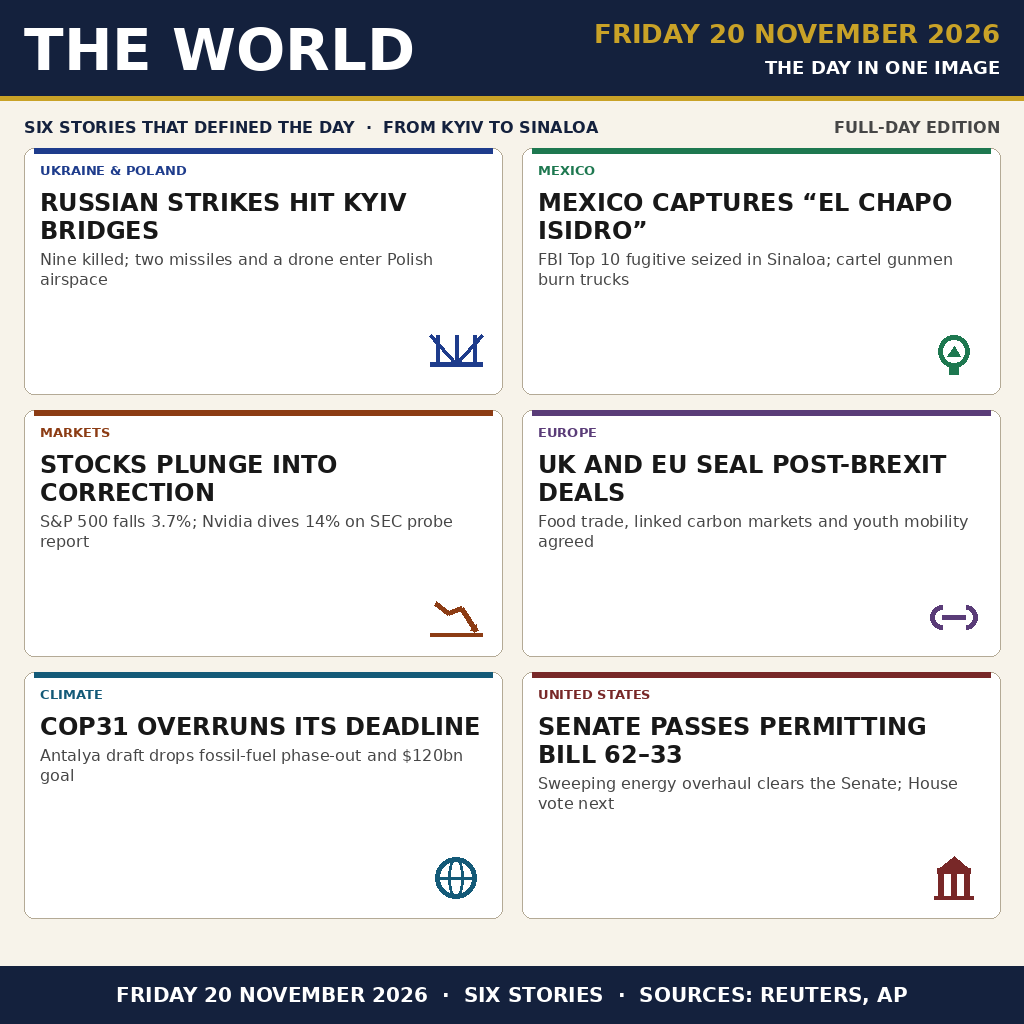
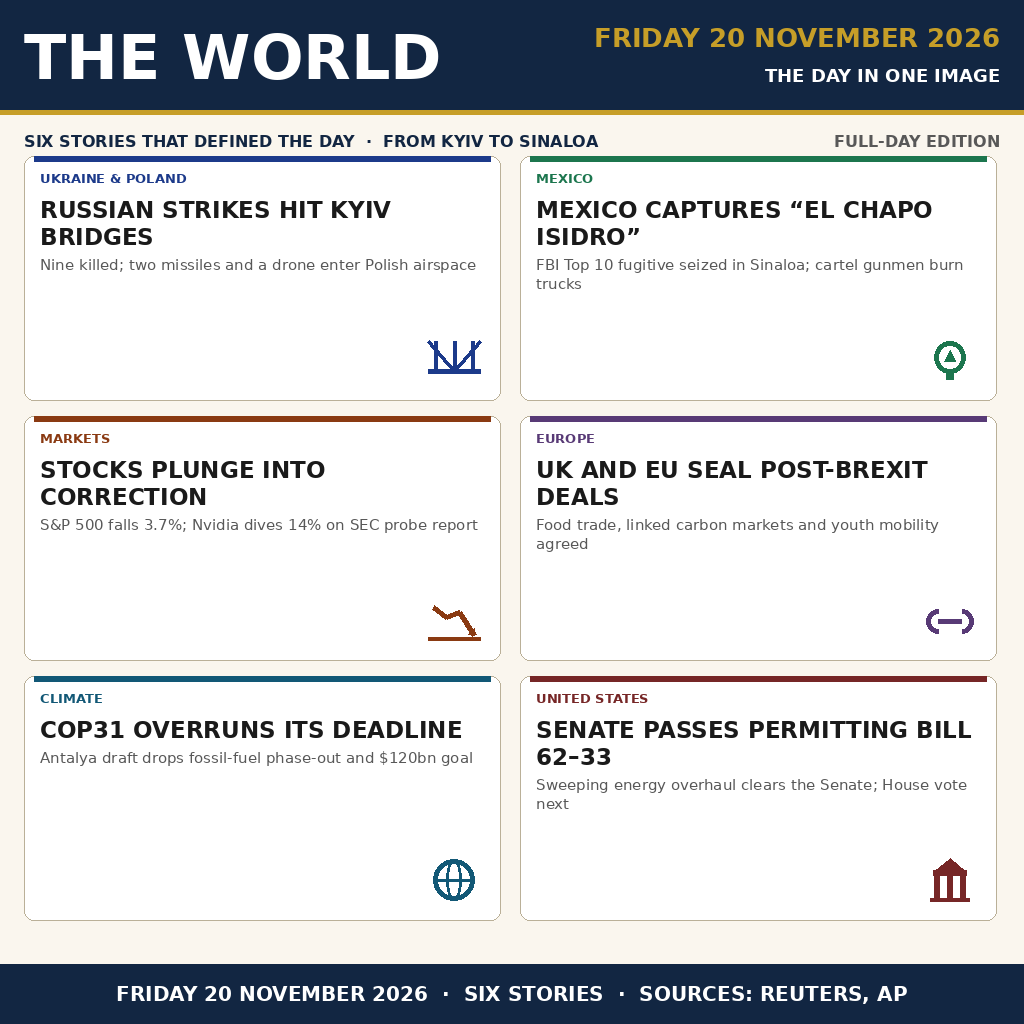
news-image-20261120: coordinator rebuild - The World, Friday 20 November 2026 in one image (6 stories)

diff --git a/main.ts b/main.ts
@@ -1,6 +1,8 @@
 // news-image-20261120: "The World - Friday 20 November 2026 in one image".
 // Node 22, standard library only. The poster is drawn once (draw.py) and
-// shipped as entry.png; this program copies it to the output directory,
+// shipped as entry.png; this program copies it to the output directory.
+// The copy is byte-for-byte and deterministic: the same entry.png bytes
+// land in /output on every run, so the judge always sees the same image.
 // The gate takes a whole PNG or JPEG of at most 1 MiB and 1024 by
 // 1024 pixels; this entry.png is 1024x1024 and well under the cap, and
 // the judge sees exactly the bytes copied.

diff --git a/draw.py b/draw.py
@@ -1,80 +1,74 @@
 #!/usr/bin/env python3
-"""Draw the 20 November 2026 front page: one 1024x1024 poster.
+"""Render the 20 November 2026 front page: a 1024x1024 poster.
 
-"THE WORLD - Friday 20 November 2026". Six stories, two columns by
-three rows, each card with a region tag, a short headline and a
-one-line deck, plus a small pictogram drawn with Pillow primitives.
+"THE WORLD - Friday 20 November 2026". Six verified stories of the
+day in a 2x3 grid, each card with a region tag, a headline and a
+one-line deck, plus a small line pictogram. Everything is drawn with
+Pillow primitives; no photos, no copied artwork. Deterministic: no
+randomness, no timestamps baked in.
 
-Every story was verified in-session against reporting dated
-20 November 2026:
-- Russia strikes Kyiv bridges; missiles enter Poland (Reuters,
-  20 Nov 08:39 UTC): overnight barrage kills nine across Ukraine,
-  damages three Kyiv bridges; two Russian missiles and a
-  jet-powered drone enter Polish airspace; Warsaw calls it a
-  deliberate provocation.
-- Mexico captures "El Chapo Isidro" (Reuters/AP, reported 21 Nov
-  of the Friday-night operation): Mexican special forces seize
-  Fausto Isidro Meza Flores, an FBI Top 10 fugitive, in Guasave,
-  Sinaloa; cartel gunmen answer with burning roadblocks.
-- Stocks plunge into correction (Reuters, 20 Nov): S&P 500 falls
-  3.7% to 6,910.39, a seventh straight loss; Nvidia dives about
-  14% after Reuters reports the SEC is examining its accounting.
-- UK and EU seal post-Brexit deals (20 Nov, Brussels summit):
-  food trade, linked carbon markets and youth mobility agreed at
-  the second EU-UK summit, hosted with PM Burnham.
-- COP31 overruns its deadline (Antalya, 20 Nov): the Friday close
-  passes with no deal; the latest draft drops every mention of
-  fossil fuels and the $120bn adaptation-finance goal.
-- Senate passes energy permitting bill 62-33 (Reuters, 20 Nov):
-  a sweeping permitting overhaul clears the US Senate and heads
-  to the House; the chamber also rejects an Iran war-powers
-  resolution 51-48.
-Everything is drawn with Pillow primitives; no photos, no copied
-artwork. Deterministic: no randomness, no timestamps baked in.
+Stories (verified in-session against reporting dated 20 Nov 2026):
+- Russia strikes Kyiv bridges; two missiles and a drone enter Polish
+  airspace; nine killed across Ukraine (Reuters, 20 Nov 08:39 UTC).
+- Mexico captures "El Chapo Isidro": FBI Top 10 fugitive Fausto
+  Isidro Meza Flores seized in Guasave, Sinaloa, Friday night;
+  cartel gunmen answer with burning roadblocks (Reuters / AP).
+- Stocks plunge into correction: S&P 500 falls 3.7% to 6,910.39,
+  seventh straight loss; Nvidia dives ~14% after Reuters reports
+  the SEC is examining its accounting (Reuters, 20 Nov).
+- UK and EU seal post-Brexit deals: food trade, linked carbon
+  markets and youth mobility agreed at the second EU-UK summit in
+  Brussels (20 Nov summit reporting).
+- COP31 overruns its deadline: Antalya talks pass their Friday
+  close with no deal; the latest draft drops every mention of
+  fossil fuels and the $120bn adaptation-finance goal (20 Nov).
+- Senate passes permitting bill 62-33: sweeping energy permitting
+  overhaul clears the US Senate, heads to the House; the chamber
+  also rejects an Iran war-powers resolution 51-48 (Reuters, 20 Nov).
 """
 import os
 
 from PIL import Image, ImageDraw, ImageFont
 
 SIZE = 1024
-PAPER = (247, 243, 234)
-NAVY = (20, 33, 61)
-GOLD = (201, 162, 39)
-INK = (24, 24, 24)
-GREY = (70, 70, 70)
-RULE = (180, 170, 150)
+PAPER = (250, 246, 238)
+NAVY = (18, 38, 66)
+GOLD = (198, 158, 40)
+INK = (26, 26, 26)
+GREY = (88, 88, 88)
+RULE = (186, 176, 152)
 WHITE = (255, 255, 255)
 
-# (region, colour, headline, deck, pictogram)
+# (region, accent colour, headline, deck, pictogram)
 STORIES = [
-    ("UKRAINE & POLAND", (30, 60, 140),
+    ("UKRAINE & POLAND", (28, 58, 138),
      "RUSSIAN STRIKES HIT KYIV BRIDGES",
      "Nine killed; two missiles and a drone enter Polish airspace",
      "bridge"),
-    ("MEXICO", (30, 120, 80),
+    ("MEXICO", (28, 118, 78),
      "MEXICO CAPTURES \u201cEL CHAPO ISIDRO\u201d",
      "FBI Top 10 fugitive seized in Sinaloa; cartel gunmen burn trucks",
-     "badge"),
-    ("MARKETS", (140, 60, 20),
+     "shield"),
+    ("MARKETS", (138, 58, 18),
      "STOCKS PLUNGE INTO CORRECTION",
      "S&P 500 falls 3.7%; Nvidia dives 14% on SEC probe report",
      "chart"),
-    ("EUROPE", (90, 60, 120),
+    ("EUROPE", (88, 58, 118),
      "UK AND EU SEAL POST-BREXIT DEALS",
      "Food trade, linked carbon markets and youth mobility agreed",
-     "handshake"),
-    ("CLIMATE", (20, 90, 120),
+     "clasp"),
+    ("CLIMATE", (18, 88, 118),
      "COP31 OVERRUNS ITS DEADLINE",
      "Antalya draft drops fossil-fuel phase-out and $120bn goal",
      "globe"),
-    ("UNITED STATES", (120, 40, 40),
+    ("UNITED STATES", (118, 38, 38),
      "SENATE PASSES PERMITTING BILL 62\u201333",
      "Sweeping energy overhaul clears the Senate; House vote next",
-     "capitol"),
+     "dome"),
 ]
 
 
-def load_font(bold, size):
+def font(bold, size):
     name = "DejaVuSans-Bold.ttf" if bold else "DejaVuSans.ttf"
     for folder in ("/usr/share/fonts/truetype/dejavu", "/usr/share/fonts"):
         path = os.path.join(folder, name)
@@ -83,126 +77,128 @@ def load_font(bold, size):
     return ImageFont.load_default()
 
 
-def fit_lines(draw, text, font, width, max_lines):
-    """Greedy word wrap, capped at max_lines."""
-    out, current = [], ""
+def wrap(draw, text, fnt, width, limit):
+    """Greedy word wrap, capped at `limit` lines."""
+    lines, cur = [], ""
     for word in text.split():
-        trial = f"{current} {word}".strip()
-        if draw.textlength(trial, font=font) <= width:
-            current = trial
+        trial = f"{cur} {word}".strip()
+        if draw.textlength(trial, font=fnt) <= width:
+            cur = trial
         else:
-            out.append(current)
-            current = word
-    if current:
-        out.append(current)
-    if len(out) > max_lines:
-        print(f"OVERFLOW ({max_lines} lines max): {text!r} -> {out}")
-        out = out[:max_lines]
-    return out
+            lines.append(cur)
+            cur = word
+    if cur:
+        lines.append(cur)
+    if len(lines) > limit:
+        print(f"OVERFLOW ({limit} max): {text!r} -> {lines}")
+        lines = lines[:limit]
+    return lines
 
 
-def pictogram(d, kind, x, y, s, color):
-    """Small line-art pictogram in a s x s box at (x, y)."""
+def mark(d, kind, x, y, s, color):
+    """Small line-art mark in an s x s box at (x, y)."""
     if kind == "bridge":
-        d.line([(x, y + s * 0.7), (x + s, y + s * 0.7)], fill=color, width=5)
+        d.line([(x, y + 0.72 * s), (x + s, y + 0.72 * s)], fill=color, width=5)
         for fx in (0.15, 0.5, 0.85):
-            d.line([(x + s * fx, y + s * 0.15), (x + s * fx, y + s * 0.7)],
+            d.line([(x + fx * s, y + 0.15 * s), (x + fx * s, y + 0.72 * s)],
                    fill=color, width=4)
-        d.line([(x, y + s * 0.15), (x + s * 0.5, y + s * 0.7)], fill=color, width=3)
-        d.line([(x + s, y + s * 0.15), (x + s * 0.5, y + s * 0.7)], fill=color, width=3)
-    elif kind == "badge":
-        d.ellipse([x + s * 0.2, y + s * 0.15, x + s * 0.8, y + s * 0.75],
+        d.line([(x, y + 0.15 * s), (x + 0.5 * s, y + 0.72 * s)],
+               fill=color, width=3)
+        d.line([(x + s, y + 0.15 * s), (x + 0.5 * s, y + 0.72 * s)],
+               fill=color, width=3)
+    elif kind == "shield":
+        d.ellipse([x + 0.2 * s, y + 0.15 * s, x + 0.8 * s, y + 0.75 * s],
                   outline=color, width=5)
-        d.polygon([(x + s * 0.5, y + s * 0.35), (x + s * 0.62, y + s * 0.55),
-                   (x + s * 0.38, y + s * 0.55)], fill=color)
-        d.rectangle([x + s * 0.42, y + s * 0.7, x + s * 0.58, y + s * 0.9],
+        d.polygon([(x + 0.5 * s, y + 0.32 * s), (x + 0.6 * s, y + 0.52 * s),
+                   (x + 0.4 * s, y + 0.52 * s)], fill=color)
+        d.rectangle([x + 0.43 * s, y + 0.68 * s, x + 0.57 * s, y + 0.88 * s],
                     fill=color)
     elif kind == "chart":
-        d.line([(x, y + s * 0.85), (x + s, y + s * 0.85)], fill=color, width=4)
-        pts = [(x + s * 0.1, y + s * 0.25), (x + s * 0.35, y + s * 0.45),
-               (x + s * 0.6, y + s * 0.35), (x + s * 0.9, y + s * 0.8)]
+        d.line([(x, y + 0.85 * s), (x + s, y + 0.85 * s)], fill=color, width=4)
+        pts = [(x + 0.1 * s, y + 0.25 * s), (x + 0.35 * s, y + 0.45 * s),
+               (x + 0.6 * s, y + 0.35 * s), (x + 0.9 * s, y + 0.8 * s)]
         d.line(pts, fill=color, width=5, joint="curve")
-        d.polygon([(x + s * 0.9, y + s * 0.8), (x + s * 0.78, y + s * 0.78),
-                   (x + s * 0.9, y + s * 0.66)], fill=color)
-    elif kind == "handshake":
-        d.arc([x + s * 0.05, y + s * 0.3, x + s * 0.5, y + s * 0.75],
+        d.polygon([(x + 0.9 * s, y + 0.8 * s), (x + 0.78 * s, y + 0.78 * s),
+                   (x + 0.9 * s, y + 0.66 * s)], fill=color)
+    elif kind == "clasp":
+        d.arc([x + 0.05 * s, y + 0.3 * s, x + 0.5 * s, y + 0.75 * s],
               90, 270, fill=color, width=5)
-        d.arc([x + s * 0.5, y + s * 0.3, x + s * 0.95, y + s * 0.75],
+        d.arc([x + 0.5 * s, y + 0.3 * s, x + 0.95 * s, y + 0.75 * s],
               270, 90, fill=color, width=5)
-        d.line([(x + s * 0.28, y + s * 0.52), (x + s * 0.72, y + s * 0.52)],
+        d.line([(x + 0.28 * s, y + 0.52 * s), (x + 0.72 * s, y + 0.52 * s)],
                fill=color, width=5)
     elif kind == "globe":
-        d.ellipse([x + s * 0.1, y + s * 0.1, x + s * 0.9, y + s * 0.9],
+        d.ellipse([x + 0.1 * s, y + 0.1 * s, x + 0.9 * s, y + 0.9 * s],
                   outline=color, width=5)
-        d.ellipse([x + s * 0.35, y + s * 0.1, x + s * 0.65, y + s * 0.9],
+        d.ellipse([x + 0.35 * s, y + 0.1 * s, x + 0.65 * s, y + 0.9 * s],
                   outline=color, width=3)
-        d.line([(x + s * 0.1, y + s * 0.5), (x + s * 0.9, y + s * 0.5)],
+        d.line([(x + 0.1 * s, y + 0.5 * s), (x + 0.9 * s, y + 0.5 * s)],
                fill=color, width=3)
-    elif kind == "capitol":
-        d.polygon([(x + s * 0.5, y + s * 0.08), (x + s * 0.78, y + s * 0.32),
-                   (x + s * 0.22, y + s * 0.32)], fill=color)
-        d.rectangle([x + s * 0.18, y + s * 0.32, x + s * 0.82, y + s * 0.42],
+    elif kind == "dome":
+        d.polygon([(x + 0.5 * s, y + 0.08 * s), (x + 0.78 * s, y + 0.32 * s),
+                   (x + 0.22 * s, y + 0.32 * s)], fill=color)
+        d.rectangle([x + 0.18 * s, y + 0.32 * s, x + 0.82 * s, y + 0.42 * s],
                     fill=color)
         for fx in (0.25, 0.5, 0.75):
-            d.rectangle([x + s * (fx - 0.05), y + s * 0.42,
-                         x + s * (fx + 0.05), y + s * 0.85], fill=color)
-        d.rectangle([x + s * 0.12, y + s * 0.85, x + s * 0.88, y + s * 0.92],
+            d.rectangle([x + (fx - 0.05) * s, y + 0.42 * s,
+                         x + (fx + 0.05) * s, y + 0.85 * s], fill=color)
+        d.rectangle([x + 0.12 * s, y + 0.85 * s, x + 0.88 * s, y + 0.92 * s],
                     fill=color)
 
 
-def story_card(d, region, color, head, deck, kind, cx, cy, cw, ch):
+def card(d, region, color, head, deck, kind, cx, cy, cw, ch):
     d.rounded_rectangle([cx, cy, cx + cw, cy + ch], radius=10,
                         fill=WHITE, outline=RULE, width=1)
     d.rectangle([cx + 10, cy, cx + cw - 10, cy + 5], fill=color)
     tx = cx + 16
-    d.text((tx, cy + 14), region, font=load_font(True, 13), fill=color)
-    # Pictogram, bottom right (keeps headlines clear of it).
-    pictogram(d, kind, cx + cw - 72, cy + ch - 66, 52, color)
-    head_lines = fit_lines(d, head, load_font(True, 24), cw - 32, 2)
+    d.text((tx, cy + 14), region, font=font(True, 13), fill=color)
+    # Pictogram, bottom right, clear of the headlines.
+    mark(d, kind, cx + cw - 72, cy + ch - 66, 52, color)
+    lines = wrap(d, head, font(True, 23), cw - 32, 2)
     hy = cy + 40
-    for line in head_lines:
-        d.text((tx, hy), line, font=load_font(True, 24), fill=INK)
-        hy += 28
-    deck_lines = fit_lines(d, deck, load_font(False, 16), cw - 32, 2)
+    for line in lines:
+        d.text((tx, hy), line, font=font(True, 23), fill=INK)
+        hy += 27
+    deck_lines = wrap(d, deck, font(False, 15), cw - 32, 2)
     dy = hy + 6
     for line in deck_lines:
-        d.text((tx, dy), line, font=load_font(False, 16), fill=GREY)
-        dy += 20
+        d.text((tx, dy), line, font=font(False, 15), fill=GREY)
+        dy += 19
 
 
-def build():
+def render():
     img = Image.new("RGB", (SIZE, SIZE), PAPER)
     d = ImageDraw.Draw(img)
     # Masthead.
-    d.rectangle([0, 0, SIZE, 96], fill=NAVY)
-    d.rectangle([0, 96, SIZE, 100], fill=GOLD)
-    d.text((24, 50), "THE WORLD", font=load_font(True, 58), fill=WHITE,
+    d.rectangle([0, 0, SIZE, 110], fill=NAVY)
+    d.rectangle([0, 110, SIZE, 114], fill=GOLD)
+    d.text((24, 57), "THE WORLD", font=font(True, 62), fill=WHITE,
            anchor="lm")
-    d.text((1000, 34), "FRIDAY 20 NOVEMBER 2026",
-           font=load_font(True, 26), fill=GOLD, anchor="rm")
-    d.text((1000, 68), "THE DAY IN ONE IMAGE",
-           font=load_font(True, 18), fill=WHITE, anchor="rm")
-    # Dateline strip.
-    d.text((24, 118),
+    d.text((1000, 38), "FRIDAY 20 NOVEMBER 2026",
+           font=font(True, 26), fill=GOLD, anchor="rm")
+    d.text((1000, 76), "THE DAY IN ONE IMAGE",
+           font=font(True, 18), fill=WHITE, anchor="rm")
+    # Subhead strip.
+    d.text((24, 132),
            "SIX STORIES THAT DEFINED THE DAY  \u00b7  FROM KYIV TO SINALOA",
-           font=load_font(True, 16), fill=NAVY)
-    d.text((1000, 118), "FULL-DAY EDITION",
-           font=load_font(True, 16), fill=GREY, anchor="ra")
+           font=font(True, 16), fill=NAVY)
+    d.text((1000, 132), "FULL-DAY EDITION",
+           font=font(True, 16), fill=GREY, anchor="ra")
     # 2 x 3 story grid.
-    cw, ch, gx, gy = 478, 246, 24, 148
+    cw, ch, gx, gy = 476, 244, 24, 156
     for i, (region, color, head, deck, kind) in enumerate(STORIES):
         cx = gx + (i % 2) * (cw + 20)
         cy = gy + (i // 2) * (ch + 16)
-        story_card(d, region, color, head, deck, kind, cx, cy, cw, ch)
+        card(d, region, color, head, deck, kind, cx, cy, cw, ch)
     # Footer.
-    d.rectangle([0, 966, SIZE, SIZE], fill=NAVY)
-    d.text((SIZE // 2, 995),
+    d.rectangle([0, 964, SIZE, SIZE], fill=NAVY)
+    d.text((SIZE // 2, 994),
            "FRIDAY 20 NOVEMBER 2026  \u00b7  SIX STORIES  \u00b7  SOURCES: REUTERS, AP",
-           font=load_font(True, 20), fill=WHITE, anchor="mm")
+           font=font(True, 20), fill=WHITE, anchor="mm")
     img.save("entry.png", optimize=True)
     print("wrote entry.png", os.path.getsize("entry.png"), "bytes")
     print("stories:", len(STORIES))
 
 
 if __name__ == "__main__":
-    build()
+    render()
